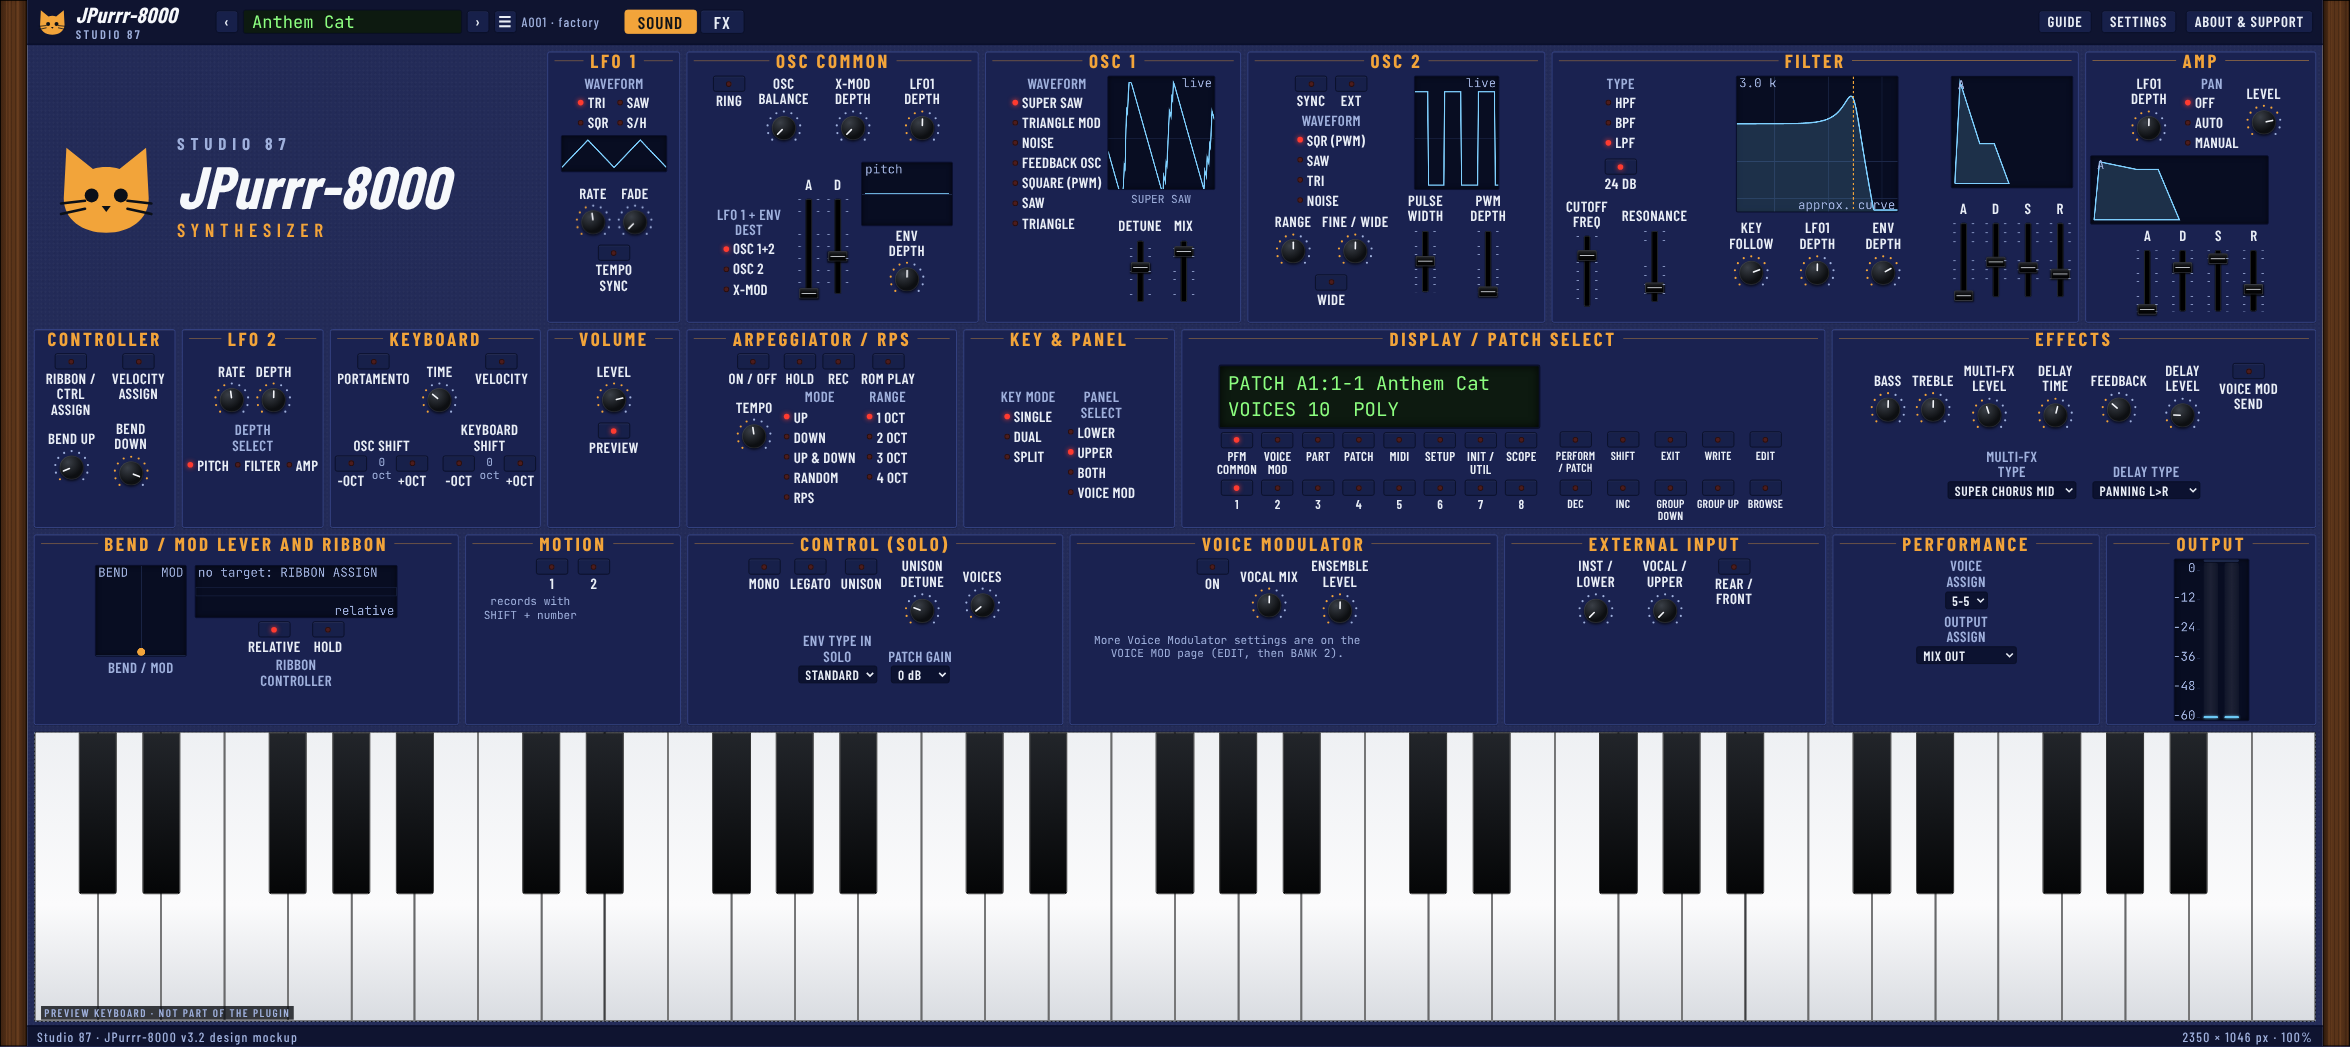
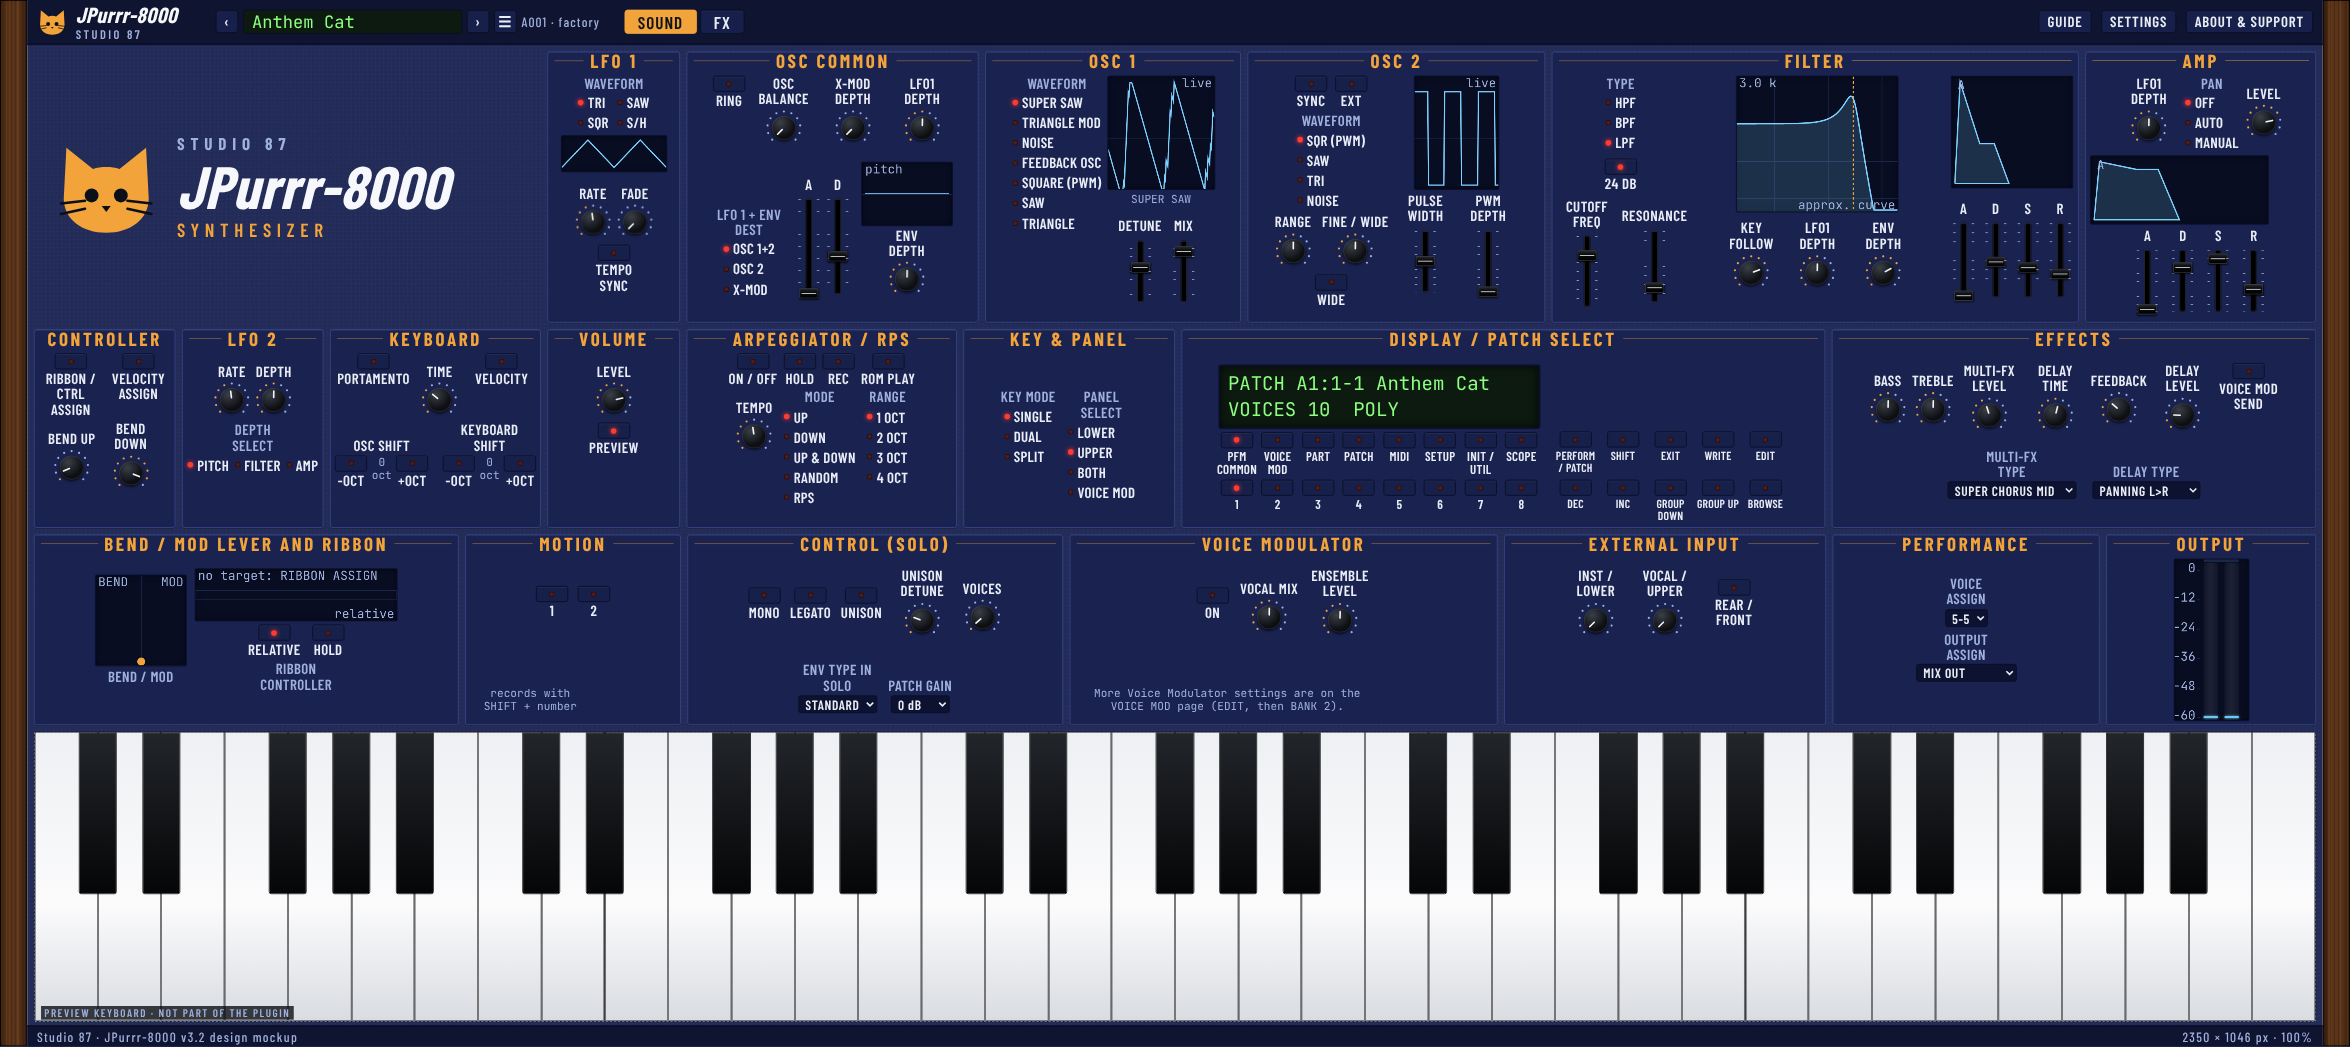
Mockup: bottom row controls lowered and aligned
Claude-Session: https://claude.ai/code/session_016ABbaoXQJWEN3dSNoh5BjT

diff --git a/docs/mockups/JPurrr-8000-mockup-v3.2.html b/docs/mockups/JPurrr-8000-mockup-v3.2.html
@@ -78,7 +78,7 @@ body{background:var(--bg);color:var(--fg);font-family:'Barlow',system-ui,sans-se
 .col{display:flex;flex-direction:column;gap:4px;align-items:center}
 .ctl{display:flex;flex-direction:column;align-items:center;gap:2px;min-width:40px}
 .lb{font:600 18.4px 'Barlow Condensed',sans-serif;letter-spacing:.03em;text-transform:uppercase;color:var(--lbl);text-align:center;line-height:1.05;white-space:normal;max-width:76px;min-height:32px;display:flex;align-items:flex-end;justify-content:center}
-#lb_o2r,#lb_o2f{max-width:120px;min-height:20px;white-space:nowrap}.oscgap{margin-top:0}.lb.s1{min-height:12px}.lb.w{max-width:90px;min-height:12px}
+#lb_o2r,#lb_o2f{max-width:120px;min-height:20px;white-space:nowrap}.oscgap{margin-top:0}.r4>.sec>.in{padding-bottom:14px}.r4>.sec>.in>:first-child{margin-top:12px}.r4>.sec>.in>.row:first-child{align-items:center}.r4>.sec>.in>:not(:first-child):last-child{margin-top:auto}.r4>.sec:last-child>.in>:first-child{margin-top:0}.lb.s1{min-height:12px}.lb.w{max-width:90px;min-height:12px}
 .lb.dim{color:var(--lbl2)}
 .knob{position:relative;width:48px;height:48px;cursor:ns-resize;touch-action:none;border-radius:50%}
 .knob .tk{position:absolute;inset:0;width:48px;height:48px;fill:var(--lbl2)}
@@ -316,7 +316,7 @@ const ctr=sec('CONTROLLER',0,240,
  `<div class="row" style="gap:8px">${btn('rba','RIBBON / CTRL ASSIGN','Press, then move a knob or slider: the ribbon controller and the control lever will move that parameter.')}${btn('va','VELOCITY ASSIGN','Press, then move a knob or slider to set how velocity changes it (morphing).')}</div>`+
  `<div class="row" style="gap:6px">${K('bu','BEND UP',0,24,2,'Pitch bend range up, in semitones (0 to +24).',{fmt:v=>'+'+v+' st'})}${K('bd','BEND DOWN',-24,0,-2,'Pitch bend range down, in semitones (-24 to 0).',{fmt:v=>v+' st'})}</div>`);
 const rbn=sec('BEND / MOD LEVER AND RIBBON',0,230,
- `<div class="row" style="gap:10px;align-items:flex-start;margin-top:8px"><div class="col" data-tip="Bend and mod lever: drag left or right to bend the pitch, up to add LFO 2 (the modulation lever). It springs back when let go.">${CV('cv_pad',112,112)}<div class="lb dim w">BEND / MOD</div></div>
+ `<div class="row" style="gap:10px"><div class="col" data-tip="Bend and mod lever: drag left or right to bend the pitch, up to add LFO 2 (the modulation lever). It springs back when let go.">${CV('cv_pad',112,112)}<div class="lb dim w">BEND / MOD</div></div>
   <div class="col" style="gap:4px" data-tip="Ribbon controller: touch and slide. It moves the parameter set with RIBBON / CTRL ASSIGN (or nothing). In RELATIVE mode it works around the current value.">${CV('cv_rib',250,64)}<div class="row" style="gap:14px">${T('rrel','RELATIVE',1,'Relative: the ribbon changes the value around where it is now. Dark is absolute.')}${T('rhold','HOLD',0,'Hold: the ribbon value stays when you lift your finger.')}</div><div class="lb dim w">RIBBON CONTROLLER</div></div></div>`);
 const fxs=sec('EFFECTS',0,240,
  `<div class="row" style="gap:6px;margin-top:12px">${K('tb','BASS',-64,63,0,'Tone control: low shelf. Right of centre adds low end, left cuts it.')}${K('tt','TREBLE',-64,63,0,'Tone control: high shelf. Right of centre adds highs, left cuts them.')}${K('xl','MULTI-FX LEVEL',0,127,55,'Level of the chorus, flanger, phaser or distortion chosen below.')}${K('dt','DELAY TIME',0,127,70,'Delay time. The range depends on the delay type.')}${K('dfb','FEEDBACK',0,127,40,'How much of the delay comes back into itself.')}${K('dl','DELAY LEVEL',0,127,22,'Delay level. 0 is off.')}${T('vsend','VOICE MOD SEND',0,'Send the patch into the Voice Modulator.')}</div>`+
@@ -330,7 +330,7 @@ const arp=sec('ARPEGGIATOR / RPS',0,240,
  `<div class="row" style="gap:8px">${T('aon','ON / OFF',0,'Arpeggiator or RPS on or off.')}${T('ahold','HOLD',0,'Hold: keep the arpeggio going after you let go.')}${btn('arec','REC','Record an RPS pattern (comes with the plugin).')}${btn('arom','ROM PLAY','Play a built in RPS pattern (comes with the plugin).')}</div>`+
  `<div class="row" style="gap:12px;align-items:flex-start">${K('atp','TEMPO',20,250,128,'Tempo in BPM. In the plugin it follows the host tempo.')}${O('amd','MODE',['UP','DOWN','UP & DOWN','RANDOM','RPS'],0,'Arpeggio mode, or RPS (realtime phrase sequencer).')}${O('arg','RANGE',['1 OCT','2 OCT','3 OCT','4 OCT'],0,'Range in octaves.')}</div>`);
 const mot=sec('MOTION',0,230,
- `<div class="row" style="gap:12px">${T('mc1','1',0,'Motion control 1: play back recorded knob and slider movements.')}${T('mc2','2',0,'Motion control 2: a second set of recorded movements.')}</div><div class="note">records with<br>SHIFT + number</div>`);
+ `<div class="row" style="gap:12px;margin-top:34px">${T('mc1','1',0,'Motion control 1: play back recorded knob and slider movements.')}${T('mc2','2',0,'Motion control 2: a second set of recorded movements.')}</div><div class="note">records with<br>SHIFT + number</div>`);
 const kpn=sec('KEY & PANEL',0,240,
  `<div class="row" style="gap:12px;align-items:flex-start;margin-top:45px">${O('km','KEY MODE',['SINGLE','DUAL','SPLIT'],0,'Single, dual (two layered patches) or split keyboard.')}${O('ps','PANEL SELECT',['LOWER','UPPER','BOTH','VOICE MOD'],1,'Which part the panel edits in Dual or Split. BOTH edits the two parts together; VOICE MOD edits the Voice Modulator.')}</div>`);
 const nbHTML=`<div class="bgrid">${BANKS.map((b,i)=>btn('bb'+(i+1),b,'Bank '+(i+1)+'. With EDIT on it opens the '+b+' parameter page.')).join('')}</div><div class="bgrid">${[1,2,3,4,5,6,7,8].map(i=>btn('nb'+i,''+i,'Patch number '+i+' in the current bank.')).join('')}</div>`;
@@ -346,7 +346,7 @@ const vmod=sec('VOICE MODULATOR',0,230,
 const ext=sec('EXTERNAL INPUT',0,230,
  `<div class="row" style="gap:10px">${K('eil','INST / LOWER',0,127,0,'Level of the instrument or lower input.')}${K('eiv','VOCAL / UPPER',0,127,0,'Level of the vocal or upper input.')}${T('erf','REAR / FRONT',0,'Vocal input: dark is the rear jack, lit is the front mic jack.')}</div>`);
 const pfm=sec('PERFORMANCE',0,230,
- `<div class="col" style="gap:6px">${D('vas','VOICE ASSIGN',VAS,3,'How the voices are shared between the two parts (Dual and Split).')}${D('oas','OUTPUT ASSIGN',['MIX OUT','PARALLEL OUT'],0,'Mix both parts, or lower left and upper right.')}</div>`);
+ `<div class="col" style="gap:6px;margin-top:22px">${D('vas','VOICE ASSIGN',VAS,3,'How the voices are shared between the two parts (Dual and Split).')}${D('oas','OUTPUT ASSIGN',['MIX OUT','PARALLEL OUT'],0,'Mix both parts, or lower left and upper right.')}</div>`);
 const outp=sec('OUTPUT',0,230,
  `<div class="row" style="gap:2px">${CV('cv_m',92,200)}</div>`);
 const GATE_INNER=`<div class="row" style="gap:36px;align-items:flex-start;justify-content:center;margin-top:6px"><div class="col" style="gap:8px" data-tip="Click or drag on the steps to draw a gate pattern. The bars move with the tempo while you play.">${CV('cv_gate',1100,240)}<div class="note" style="max-width:none">Click or drag on the steps. The frame follows the tempo while you play. Drawing your own pattern switches PATTERN to USER.</div></div>`+
@@ -413,7 +413,7 @@ const fxpage=`<div class="fxtabs"><button class="hb tab on" id="tfx1" data-tip="
  `<div id="fx1" class="fxp"><div class="rowS" style="height:330px">${gate}${mst}${rsp}</div><div class="rowS" style="height:484px">${dr}${lo}${ms}${tr}${tm2}${gl}${wd}${ap}</div></div>`+
  `<div id="fx2" class="fxp" hidden><div class="rowS" style="height:362px">${opto}${ott}${ou}${flow2}</div><div class="rowS" style="height:580px">${dm}</div></div>`;
 const logo=`<div class="logo">${CAT}<div><small>STUDIO 87</small><div class="big">JPurrr-8000</div><div class="sub">SYNTHESIZER</div></div></div>`;
-return `<div id="pgSound" class="pg"><div class="rowS"><div class="lblk" style="width:max-content">${logo}<div class="rowS">${ctr}${lfo2}${kbs}</div></div><div class="mblk"><div class="rowS">${fixW(lfo1,165)}${com}${osc1}${osc2}${flt}${amp}</div><div class="rowS">${fixW(vol,165)}${arp}${kpn}${disp}${fxs}</div></div></div><div class="rowS">${rbn}${mot}${ctrl}${vmod}${ext}${pfm}${outp}</div></div>`+`<div id="pgFx" class="pg" hidden>${fxpage}</div><div id="kbd"><span class="tag">Preview keyboard · not part of the plugin</span></div>`;
+return `<div id="pgSound" class="pg"><div class="rowS"><div class="lblk" style="width:max-content">${logo}<div class="rowS">${ctr}${lfo2}${kbs}</div></div><div class="mblk"><div class="rowS">${fixW(lfo1,165)}${com}${osc1}${osc2}${flt}${amp}</div><div class="rowS">${fixW(vol,165)}${arp}${kpn}${disp}${fxs}</div></div></div><div class="rowS r4">${rbn}${mot}${ctrl}${vmod}${ext}${pfm}${outp}</div></div>`+`<div id="pgFx" class="pg" hidden>${fxpage}</div><div id="kbd"><span class="tag">Preview keyboard · not part of the plugin</span></div>`;
 }
 
 const CAT=`<svg viewBox="0 0 40 40" aria-hidden="true"><path fill="currentColor" d="M5 5l10 8c3-1 7-1 10 0l10-8 1 19c0 8-7 13-16 13S4 32 4 24z"/><circle cx="14.5" cy="23" r="2.6" fill="#0b1018"/><circle cx="25.5" cy="23" r="2.6" fill="#0b1018"/><path d="M18.3 27h3.4L20 29.2z" fill="#0b1018"/><path d="M3 26l9-1M3 30l9-2M37 26l-9-1M37 30l-9-2" stroke="#0b1018" stroke-width="1" fill="none" stroke-linecap="round"/></svg>`;
